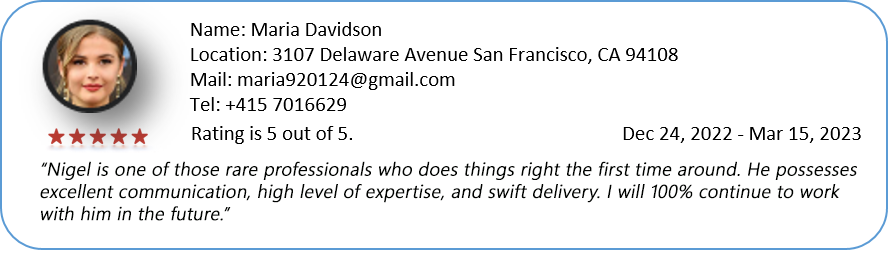
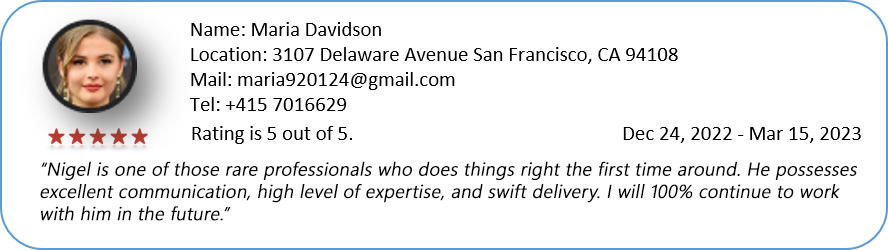
feedback update - margin

diff --git a/README.md b/README.md
@@ -113,6 +113,8 @@
 </table>
 <!--END_SECTION:top-followers-->
 
+<br />
+
 ### 💬 Clients FeedBack ✍
 ![](https://github.com/lightlifedev/lightlifedev/blob/master/Feedback1.png)
 ![](https://github.com/lightlifedev/lightlifedev/blob/master/Feedback2.png)
